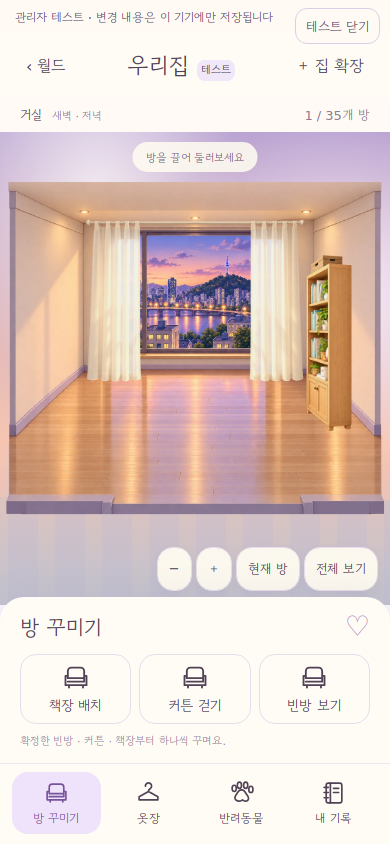
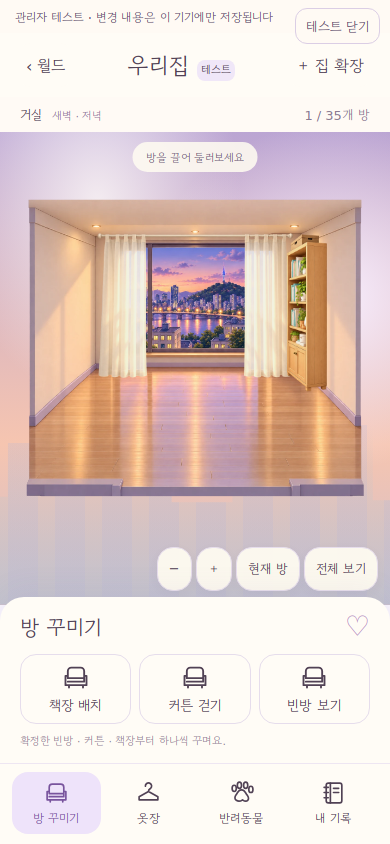
Align half-cell floor grid to wall corners and add side framing space

Changed region(s): [[0.0, 0.2156, 0.9846, 0.6161]]

diff --git a/house-test/app.js b/house-test/app.js
@@ -1,5 +1,5 @@
-import {icon} from './icons.js?v=20261001-2';
-import {normalize,roomKey,canAdd,normalizeShelf,shelfSize,floorPoint,floorCell,roomPeriod} from './model.js?v=20261001-2';
+import {icon} from './icons.js?v=20261001-3';
+import {normalize,roomKey,canAdd,normalizeShelf,shelfSize,floorPoint,floorCell,roomPeriod} from './model.js?v=20261001-3';
 const $=s=>document.querySelector(s),view=$('#viewport'),world=$('#world');
 const stepX=1294,stepY=1210,reduced=matchMedia('(prefers-reduced-motion: reduce)').matches;
 let state,port,key,initialized=false,selected='0:0',tab='room',expanding=false,scale=1,pan={x:0,y:0},actorX=420,dogX=700,follow=false,raf=0,motion=null,timer,saveFailed=false;
@@ -12,7 +12,7 @@ function save(){persist();}
 function current(){return state.rooms.find(r=>roomKey(r)===selected)||state.rooms[0];}
 function title(r){if(!r.x&&!r.y)return '거실';return `${r.y>0?'위 '+r.y+'층':r.y<0?'아래 '+(-r.y)+'층':'시작 층'} · ${r.x<0?'왼쪽 '+(-r.x):r.x>0?'오른쪽 '+r.x:'가운데'}`;}
 function applyCamera(){const w=view.clientWidth,h=view.clientHeight;pan.x=Math.max(-6470*scale+w*.1,Math.min(w*.9,pan.x));pan.y=Math.max(-8470*scale+h*.1,Math.min(h*.9,pan.y));world.style.transform=`translate(${pan.x}px,${pan.y}px) scale(${scale})`;}
-function focusRoom(all=false){const r=current(),b=bounds(r),w=view.clientWidth,h=view.clientHeight;if(all){const a=expanding?[{x:-2,y:-3},{x:2,y:3}]:state.rooms;const minX=Math.min(...a.map(x=>bounds(x).x)),maxX=Math.max(...a.map(x=>bounds(x).x))+1254,minY=Math.min(...a.map(x=>bounds(x).y)),maxY=Math.max(...a.map(x=>bounds(x).y))+1180;scale=Math.max(.045,Math.min(w/(maxX-minX+110),(h-80)/(maxY-minY+90),1));pan={x:(w-(maxX-minX)*scale)/2-minX*scale,y:(h-(maxY-minY)*scale)/2-minY*scale-10};}else{scale=Math.max(.08,Math.min(w/1280,(h-75)/1120,1));pan={x:w/2-(b.x+627)*scale,y:(h-75-1120*scale)/2+15-(b.y+65)*scale};}applyCamera();}
+function focusRoom(all=false){const r=current(),b=bounds(r),w=view.clientWidth,h=view.clientHeight;if(all){const a=expanding?[{x:-2,y:-3},{x:2,y:3}]:state.rooms;const minX=Math.min(...a.map(x=>bounds(x).x)),maxX=Math.max(...a.map(x=>bounds(x).x))+1254,minY=Math.min(...a.map(x=>bounds(x).y)),maxY=Math.max(...a.map(x=>bounds(x).y))+1180;scale=Math.max(.045,Math.min(w/(maxX-minX+110),(h-80)/(maxY-minY+90),1));pan={x:(w-(maxX-minX)*scale)/2-minX*scale,y:(h-(maxY-minY)*scale)/2-minY*scale-10};}else{scale=Math.max(.08,Math.min(w/1434,(h-75)/1120,1));pan={x:w/2-(b.x+627)*scale,y:(h-75-1120*scale)/2+15-(b.y+65)*scale};}applyCamera();}
 function zoom(factor,point={x:view.clientWidth/2,y:view.clientHeight/2}){const next=Math.min(1.6,Math.max(.045,scale*factor)),ratio=next/scale;pan.x=point.x-(point.x-pan.x)*ratio;pan.y=point.y-(point.y-pan.y)*ratio;scale=next;applyCamera();}
 function element(tag,classes,text){const n=document.createElement(tag);if(classes)n.className=classes;if(text)n.textContent=text;return n;}
 function stopMotion(){cancelAnimationFrame(raf);raf=0;motion=null;timers.forEach(clearTimeout);timers.clear();world.querySelectorAll('.walking,.playing,.loved').forEach(n=>n.classList.remove('walking','playing','loved'));world.querySelectorAll('.heart').forEach(n=>n.remove());world.querySelectorAll('.ball').forEach(n=>n.hidden=true);}

diff --git a/house-test/index.html b/house-test/index.html
@@ -1,5 +1,5 @@
 <!doctype html>
-<html lang="ko"><head><meta charset="utf-8"><meta name="viewport" content="width=device-width,initial-scale=1,viewport-fit=cover"><title>우리집 테스트</title><link rel="stylesheet" href="style.css?v=20261001-2"></head>
+<html lang="ko"><head><meta charset="utf-8"><meta name="viewport" content="width=device-width,initial-scale=1,viewport-fit=cover"><title>우리집 테스트</title><link rel="stylesheet" href="style.css?v=20261001-3"></head>
 <body><section id="locked"><h1>우리집 테스트</h1><p>월드 관리자 모드에서 열어 주세요.</p><a href="/world.html">월드로 돌아가기</a></section>
 <main id="app" hidden>
 <header><button id="exit" aria-label="테스트 닫기">‹ <span>월드</span></button><h1>우리집 <small>테스트</small></h1><button id="expand" aria-pressed="false">＋ 집 확장</button></header>
@@ -8,4 +8,4 @@
 <section id="panel" aria-label="선택한 기능"><div class="panel-head"><div><small>우리집에서 함께</small><h2 id="panel-title">방 꾸미기</h2></div><span class="pet-face" aria-hidden="true">♡</span></div><div id="panel-body"></div></section>
 <nav aria-label="우리집 메뉴"><button data-tab="room" aria-pressed="true"><span>▧</span>방 꾸미기</button><button data-tab="closet"><span>♧</span>옷장</button><button data-tab="pet"><span>♧</span>반려동물</button><button data-tab="diary"><span>▤</span>내 기록</button></nav>
 <div id="notice" role="status" aria-live="polite"></div><p id="save-warning" hidden role="status">이 브라우저에서는 테스트 내용을 저장할 수 없어요.</p>
-</main><script type="module" src="app.js?v=20261001-2"></script></body></html>
+</main><script type="module" src="app.js?v=20261001-3"></script></body></html>

diff --git a/house-test/host.js b/house-test/host.js
@@ -6,7 +6,7 @@ export function openHouseTest({owner,authorized}){
  Object.assign(overlay.style,{position:'fixed',inset:'0',zIndex:'10000',background:'#f8f2fc',display:'flex',flexDirection:'column'});
  const status=document.createElement('div');status.textContent='우리집을 준비하고 있어요…';Object.assign(status.style,{padding:'8px 110px 8px 15px',fontSize:'12px',color:'#65526f',background:'#fffaf4'});
  const close=document.createElement('button');close.textContent='테스트 닫기';close.style.cssText='position:absolute;right:10px;top:8px;z-index:2;border:1px solid #dbcee5;background:#fffaf4;color:#65526f;border-radius:12px;padding:6px 10px;min-height:36px;cursor:pointer';
- const frame=document.createElement('iframe');frame.title='새 우리집 플레이 테스트';frame.src=new URL('./index.html?v=20261001-2',import.meta.url).href;frame.style.cssText='width:100%;flex:1;border:0;min-height:0';
+ const frame=document.createElement('iframe');frame.title='새 우리집 플레이 테스트';frame.src=new URL('./index.html?v=20261001-3',import.meta.url).href;frame.style.cssText='width:100%;flex:1;border:0;min-height:0';
  overlay.append(status,close,frame);document.body.append(overlay);document.body.style.overflow='hidden';close.focus();
  let channel=null,closed=false;
  function cleanup(){if(closed)return;closed=true;clearInterval(watcher);clearTimeout(deadline);channel?.port1.postMessage({type:'dispose'});channel?.port1.close();overlay.remove();document.body.style.overflow=oldOverflow;window.removeEventListener('keydown',escape,true);if(lastFocus?.isConnected)lastFocus.focus();if(activeClose===cleanup)activeClose=null;}

diff --git a/house-test/model.js b/house-test/model.js
@@ -11,8 +11,25 @@ export function normalizeShelf(s){
  const {w,d}=shelfSize(s.direction);
  return {direction:s.direction,x:Math.max(0,Math.min(8-w,Math.round(s.x*2)/2)),y:Math.max(0,Math.min(7-d,Math.round(s.y*2)/2))};
 }
-export function floorPoint(x,y){const t=y/7;return {x:260-245*t+x/8*(757+467*t),y:704+410*t};}
-export function floorCell(x,y){const t=(y-704)/410;return {x:(x-(260-245*t))*8/(757+467*t),y:t*7};}
+// Calibrated to the inside corners where the skirting meets the floor.
+// The foreground apron is outside the 8 × 7 furniture grid.
+export const FLOOR_CORNERS=[{x:262,y:709},{x:1014,y:718},{x:1215,y:919},{x:40,y:919}];
+const [p0,p1,p2,p3]=FLOOR_CORNERS;
+const dx1=p1.x-p2.x,dx2=p3.x-p2.x,dx3=p0.x-p1.x+p2.x-p3.x;
+const dy1=p1.y-p2.y,dy2=p3.y-p2.y,dy3=p0.y-p1.y+p2.y-p3.y;
+const determinant=dx1*dy2-dx2*dy1;
+const G=(dx3*dy2-dx2*dy3)/determinant,H=(dx1*dy3-dx3*dy1)/determinant;
+const A=p1.x-p0.x+G*p1.x,B=p3.x-p0.x+H*p3.x,C=p0.x;
+const D=p1.y-p0.y+G*p1.y,E=p3.y-p0.y+H*p3.y,F=p0.y;
+export function floorPoint(x,y){
+ const u=x/FLOOR.width,v=y/FLOOR.depth,w=G*u+H*v+1;
+ return {x:(A*u+B*v+C)/w,y:(D*u+E*v+F)/w};
+}
+export function floorCell(x,y){
+ const a=A-x*G,b=B-x*H,c=x-C,d=D-y*G,e=E-y*H,f=y-F,det=a*e-b*d;
+ if(!Number.isFinite(det)||Math.abs(det)<1e-8)return {x:4,y:0};
+ return {x:FLOOR.width*(c*e-b*f)/det,y:FLOOR.depth*(a*f-c*d)/det};
+}
 const clock=new Intl.DateTimeFormat('en-GB',{timeZone:'Asia/Seoul',hour:'2-digit',hourCycle:'h23'});
 export function roomPeriod(date=new Date()){
  const hour=Number(clock.format(date));

diff --git a/house-test/README.md b/house-test/README.md
@@ -11,7 +11,7 @@ The approved compact empty room uses its original square camera, cream walls, oa
 - 08:00–18:00: day.
 - 20:00–06:00: night.
 
-Floor: 8 × 7 cells, half-cell movement. Bookshelf: 2 × 1 cells front-facing, 1 × 2 cells at side-wall angles. Dragging and arrow controls use the same projected floor and snap/clamp function. Editing is a draft until **배치 완료**; cancellation and leaving the editor discard it. Curtains can be shown/removed independently. **빈방 보기** removes furniture only in the test save; approved room geometry never changes.
+Floor: 8 × 7 cells, half-cell movement. Its projective transform is calibrated to the four wall/floor corners; the foreground apron is outside the placement grid. Current-room framing reserves space on both sides. Bookshelf: 2 × 1 cells front-facing, 1 × 2 cells at side-wall angles. Dragging and arrow controls use the same projected floor and snap/clamp function. Editing is a draft until **배치 완료**; cancellation and leaving the editor discard it. Curtains can be shown/removed independently. **빈방 보기** removes furniture only in the test save; approved room geometry never changes.
 
 Starter room is centered (0,0); x −2…2, y −3…3, at most 35 rooms. Add only beside an existing connected room. Expansion, curtains, bookshelf and diary persist per account on this device, under `ojjuda-house-playtest-v1:<owner>`; internal schema is version 2 and upgrades older prototype saves. No production ownership, wallet, profile or diary is changed.
 
